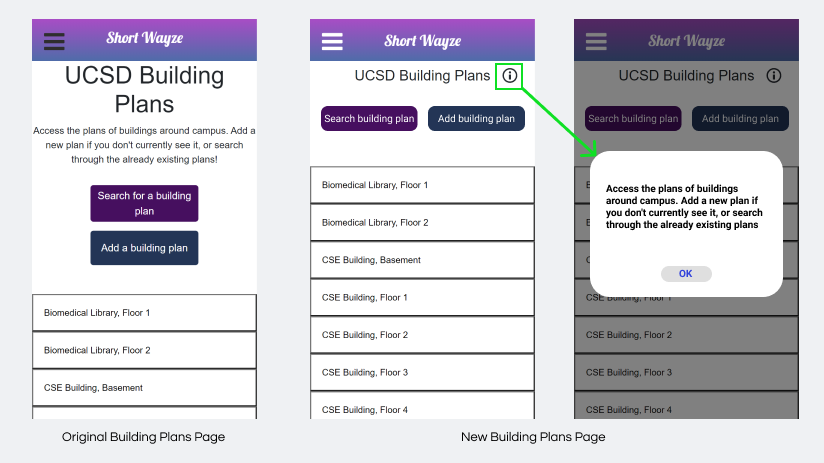
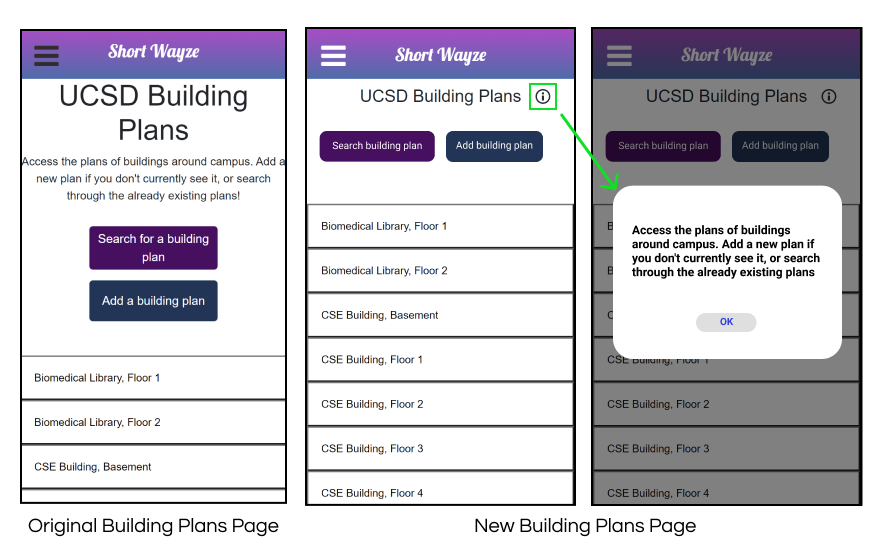
fixed styling

Changed region(s): [[0.0, 0.0302, 1.0, 0.9676], [0.091, 0.3931, 0.2731, 0.6048]]

diff --git a/project.html b/project.html
@@ -47,12 +47,15 @@
         </p>
         <br />
         <p>
-          Our app, called Short Wayze, aims at helping new students and visitors
-          get across UCSD campus faster while avoiding constructions and cops,
-          and giving users a better understanding of the campus. I was primarily
-          responsible for designing and developing the user interface, user
-          testing, and setting up weekly meetings. I also contributed to user
-          research and app deployment.
+          Our app, called Short Wayze,
+          <b
+            >aims at helping new students and visitors get across UCSD campus
+            faster while avoiding constructions and cops, and giving users a
+            better understanding of the campus.</b
+          >
+          I was primarily responsible for designing and developing the user
+          interface, user testing, and setting up weekly meetings. I also
+          contributed to user research and app deployment.
         </p>
       </div>
       <div class="section problem">
@@ -103,15 +106,15 @@
           After figuring out our target audience and user needs, we started an
           inspiration board by taking three apps that relate to our design idea
           and pulling inspirations from these three apps. For example, we liked
-          the step-by-step and directions functionality by Google Maps, the
-          reporting features in Waze, and the ability to view and import floor
-          plans in Magicplan.
+          the <b>step-by-step and directions functionality by Google Maps </b>,
+          the <b> reporting features in Waze </b>, and the
+          <b>ability to view and import floor plans in Magicplan. </b>
         </p>
         <a href="#img2">
           <img src="./img/Competitor.png" class="thumbnail" />
         </a>
         <a href="#_" class="lightbox" id="img2">
-          <img src="./img/Competitor.png" class="thumbnail" />
+          <img src="./img/CompetitorZoom.png" class="thumbnail" />
         </a>
 
         <div class="section storyboarding">
@@ -135,12 +138,15 @@
           <h2>Paper Prototyping</h2>
           <p>
             Our next step in the design process was to take our storyboards and
-            create paper prototypes . These prototypes were low-level because we
-            wanted to focus on the important UI elements rather than the visual
-            appearance of the application. However, it was hard for us not to
-            focus on the small details because it was our first time making
-            paper prototypes. Looking back, we were proud of ourselves that we
-            did not waste a lot of time focusing on the appearance of the app.
+            create paper prototypes .
+            <b
+              >These prototypes were low-level because we wanted to focus on the
+              important UI elements rather than the visual appearance of the
+              application </b
+            >. However, it was hard for us not to focus on the small details
+            because it was our first time making paper prototypes. Looking back,
+            we were proud of ourselves that we did not waste a lot of time
+            focusing on the appearance of the app.
           </p>
 
           <span>
@@ -162,10 +168,11 @@
         <div class="section heuristic-evaluation"></div>
         <h2>Heuristic-Evaluation</h2>
         <p>
-          After creating our two paper prototypes, we conducted heuristic
-          evaluations on three users, following Jacob Nielson’s 10 general
-          principles for interaction design. Below are our findings from the
-          evaluations:
+          After creating our two paper prototypes, we
+          <b
+            >conducted heuristic evaluations on three users, following Jacob
+            Nielson’s 10 general principles for interaction design </b
+          >. Below are our findings from the evaluations:
         </p>
         <ul>
           <li>
@@ -202,9 +209,9 @@
           suggestions from both prototypes to create our first wireframes.
         </p>
         <a href="#img6">
-          <img src="./img/Wireframe.png" class="thumbnail" />
+          <img src="./img/Wireframe1.png" class="thumbnail" />
         </a>
-        <a href="#_" class="lightbox" id="img6">
+        <a href="#_" class="lightbox1" id="img6">
           <img src="./img/Wireframe.png" class="thumbnail" />
         </a>
       </div>
@@ -223,13 +230,16 @@
           <li>Upload a new UCSD building plan</li>
         </ol>
         <p>
-          We created these tasks because we were particularly interested in how
-          our users interact with the shortcut functionality as well as how they
-          respond to the layout of the building plans. We asked the user to
-          think out loud as they complete the task because the goal of this test
-          is to identify any problems users may have in understanding or finding
-          a shortcut and a building plan using our app. Below are our findings
-          from the test:
+          We created these tasks because we were particularly
+          <b
+            >interested in how our users interact with the shortcut
+            functionality as well as how they respond to the layout of the
+            building plans.
+          </b>
+          We asked the user to think out loud as they complete the task because
+          the goal of this test is to identify any problems users may have in
+          understanding or finding a shortcut and a building plan using our app.
+          Below are our findings from the test:
         </p>
 
         <ul>
@@ -246,22 +256,23 @@
           </li>
           <li>First time visitors were unsure where to start</li>
         </ul>
+        <div class="caption">
+          <a href="#img7">
+            <img src="./img/sam.PNG" class="thumbnail" width="300px" />
+          </a>
+          <a href="#_" class="lightbox" id="img7">
+            <img src="./img/sam.PNG" class="thumbnail" width="500px" />
+          </a>
 
-        <a href="#img7">
-          <img src="./img/sam.PNG" class="thumbnail" width="300px" />
-        </a>
-        <a href="#_" class="lightbox" id="img7">
-          <img src="./img/sam.PNG" class="thumbnail" width="500px" />
-        </a>
-
-        <p class="caption">
-          <span class="emphasis">Sam: </span> Sam thought that the cop and
-          construction markers/icons on the map were clickable. He tried to
-          click on every icon and realized that nothing happened. The markers
-          were misleading because map markers/icons are usually clickable.
-          However, he was able to identify what the icons were just by looking
-          at them.
-        </p>
+          <p>
+            <span class="emphasis">User: </span> User thought that the cop and
+            construction markers/icons on the map were clickable. He tried to
+            click on every icon and realized that nothing happened. The markers
+            were misleading because map markers/icons are usually clickable.
+            However, he was able to identify what the icons were just by looking
+            at them.
+          </p>
+        </div>
       </div>
 
       <div class="section user-testing">
@@ -269,19 +280,19 @@
         <p>
           In addition to the heuristic evaluations we conducted, we also wanted
           to collect data on two variations of our building plan page. So we
-          created an A/B testing through Google Analytics. We wanted to get data
-          on how long users spend on each page and how often they use the search
-          functionality.
+          <b> created an A/B testing through Google Analytics. </b> We wanted to
+          get data on how long users spend on each page and how often they use
+          the search functionality.
         </p>
         <span>
           <a href="#img8">
-            <img src="./img/VersionA.png" class="thumbnail" width="500px" />
+            <img src="./img/VersionA.png" class="thumbnail" width="430px" />
           </a>
           <a href="#_" class="lightbox" id="img8">
             <img src="./img/VersionA.png" class="thumbnail" />
           </a>
           <a href="#img9">
-            <img src="./img/VersionB.png" class="thumbnail" width="500px" />
+            <img src="./img/VersionB.png" class="thumbnail" width="430px" />
           </a>
           <a href="#_" class="lightbox" id="img9">
             <img src="./img/VersionB.png" class="thumbnail" />
@@ -298,11 +309,15 @@
           collapsible layout.
         </p>
         <p>
-          <span class="emphasis">Final Design </span> Our A/B testing showed
-          that users spent more time on Version B and they used the search
-          functionality more. We think this was due to the fact that Version B
-          has a cleaner and more friendly UI. Therefore, we decided to keep this
-          version as our final design.
+          <span class="emphasis">Final Design: </span>
+          Our A/B testing showed that
+          <b
+            >users spent more time on Version B and they used the search
+            functionality more.
+          </b>
+          We think this was due to the fact that Version B has a cleaner and
+          more friendly UI. Therefore, we decided to keep this version as our
+          final design.
         </p>
         <a href="#img10">
           <img src="./img/ABTest.JPG" class="thumbnail" width="100%" />
@@ -316,7 +331,7 @@
         <br />
         <h4>Homepage</h4>
         <a href="#img11">
-          <img src="./img/Homepage.png" class="thumbnail" />
+          <img src="./img/Homepage.png" class="thumbnail" width="880px" />
         </a>
         <a href="#_" class="lightbox" id="img11">
           <img src="./img/Homepage.png" class="thumbnail" />
@@ -341,10 +356,10 @@
         <br />
         <h4>Route/Direction</h4>
         <a href="#img12">
-          <img src="./img/Frame 1.png" class="thumbnail" />
+          <img src="./img/direction.png" class="thumbnail" />
         </a>
         <a href="#_" class="lightbox" id="img12">
-          <img src="./img/Frame 1.png" class="thumbnail" />
+          <img src="./img/direction1.png" class="thumbnail" />
         </a>
 
         <div><br /></div>
@@ -370,10 +385,10 @@
         <div><br /></div>
         <h4>Report</h4>
         <a href="#img13">
-          <img src="./img/Report.png" class="thumbnail" />
+          <img src="./img/report.png" class="thumbnail" />
         </a>
         <a href="#_" class="lightbox" id="img13">
-          <img src="./img/Report.png" class="thumbnail" width="60%" />
+          <img src="./img/report.png" class="thumbnail" />
         </a>
 
         <p>
@@ -392,7 +407,7 @@
           <img src="./img/Buildplan.png" class="thumbnail" />
         </a>
         <a href="#_" class="lightbox" id="img14">
-          <img src="./img/Buildplan.png" class="thumbnail" width="60%" />
+          <img src="./img/Buildplan.png" class="thumbnail" />
         </a>
 
         <p>
@@ -412,9 +427,28 @@
       </div>
       <div class="section final-product">
         <h2>Final Product</h2>
+        <img src="./img/finalProduct.png" alt="" />
       </div>
+      <br />
       <div class="reflection">
         <h2>Reflection</h2>
+        <p>
+          Working on this project I learned the steps of creating an app idea
+          and going from development to production level. I learnt how to divide
+          these tasks to be efficient in development, and how to merge different
+          ideas into one final product. I also became familiar with the process
+          of incorporating user feedback into our app and the importance of
+          having third parties critique our work outside of our group. Some good
+          planning choices we made as a team were having weekly meetings about
+          the status of our work, and assigning each member to a task to speed
+          up the development. Some less successful planning decisions were that
+          we tended to end up doing most of the weekly work a few days before
+          the deadline so oftentimes we were crunched for time towards the end.
+          If I were to do it again, I would focus more on starting earlier so
+          that my team could feel less pressure throughout the week, and maybe
+          set more realistic goals for what we want our app to do while taking
+          into consideration our skill level with HTML, CSS, and Javascript.
+        </p>
       </div>
     </div>
   </body>

diff --git a/styles/shortwayze.css b/styles/shortwayze.css
@@ -56,7 +56,8 @@ h1 {
 .caption {
   display: flex;
   flex-direction: column;
-  width: 50%;
+  justify-content: center;
+  align-items: center;
 }
 
 .lightbox {
